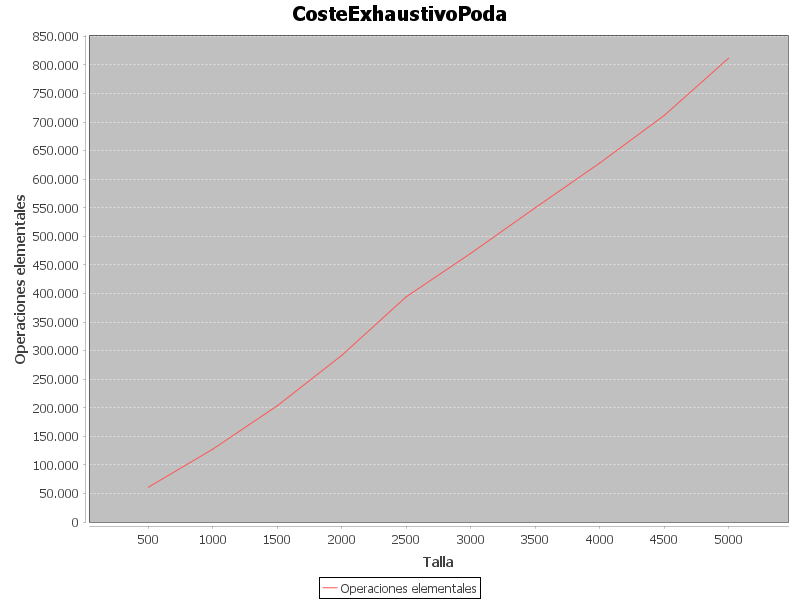
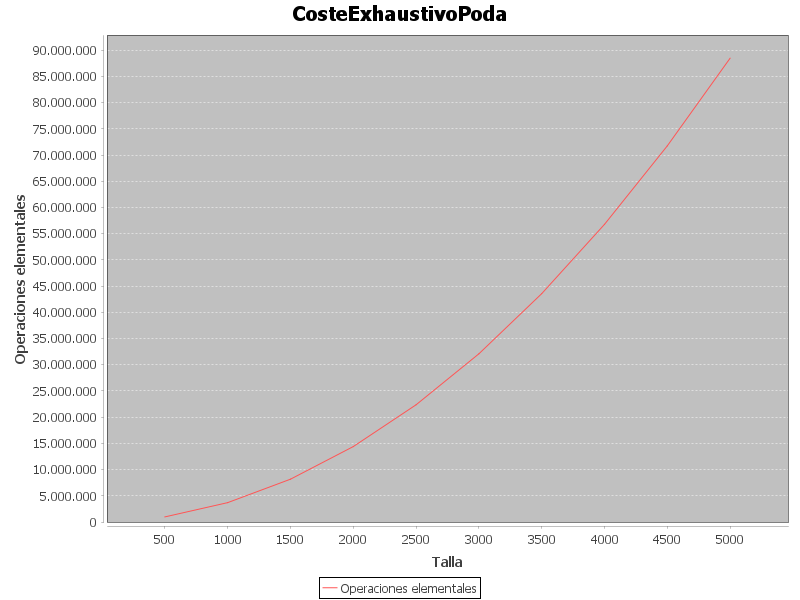
Hice algo, no me acuerdo que jajaja

diff --git a/src/Clases/Algoritmos.java b/src/Clases/Algoritmos.java
@@ -62,6 +62,7 @@ public class Algoritmos {
                     op+=4;
                 }
             }
+            op+=4;
         }
         
         return p;
@@ -93,7 +94,7 @@ public class Algoritmos {
         op+=9;
         for (int i = inicio; i < fin; i++) {
             op+=8;
-            for (int j = i + 1; j < fin && j <= i + 11; j++) {
+            for (int j = i + 1; j < fin; j++) {
                 op+=4;
                 if ((puntos.get(j).getX() - puntos.get(i).getX()) < dmin) {
                     double d = distancia(puntos.get(i), puntos.get(j));
@@ -108,79 +109,35 @@ public class Algoritmos {
                     j = fin; //o ponemos break y al carajo
                     op++;
                 }
+                op+=8;
             }
+            op+=4;
         }
         return p;
     }
 
     public static PuntosMin DyVe(List<Punto> puntos) {
         quicksort(puntos, 0, puntos.size() - 1);
+        op=+3;
         return divide_y_venceras(puntos, 0, puntos.size() - 1);
     }
 
-    //i de izq y d de derch
-    /*   public static PuntosMin DyVe(List<Punto> puntos, int i, int d) {
-        int n = d - i + 1;
-
-        // Caso base: Si el número de puntos es menor a 3, usar el método de búsqueda directa.
-        if (n < 3) {
-            return BusquedaPoda(puntos, i, d);
-        }
-        // Dividir el conjunto en dos mitades
-        int mitad = (i + d) / 2;
-        PuntosMin izq = DyVe(puntos, i, mitad);
-        PuntosMin der = DyVe(puntos, mitad + 1, d);
-        PuntosMin p = new PuntosMin();
-        // Distancias mínimas de las mitades izquierda y derecha
-        di = izq.getDistancia();
-        cont++;
-         dd = der.getDistancia();
-        cont++;
-
-        double dmin;
-        if (di <= dd) {
-            dmin = di;
-            p = izq;
-        } else {
-            dmin = dd;
-            p = der;
-        }
-
-        // Crear una lista de puntos dentro de la franja central
-        List<Punto> franja = new ArrayList<>();
-        for (int k = i; k <= d; k++) {
-            if (Math.abs(puntos.get(k).getX() - puntos.get(mitad).getX()) < dmin) {
-                franja.add(puntos.get(k));
-            }
-        }
-        // Comprobar las distancias entre los puntos dentro de la franja central
-        for (int c = 0; c < franja.size(); c++) {
-            // Comparar solo con los próximos puntos en Y, ya que están ordenados
-            for (int e = c + 1; e < franja.size() && (franja.get(e).getX() - franja.get(c).getX()) < dmin; e++) {
-                double distanciaActual = distancia(franja.get(c), franja.get(e));
-                cont++;
-                if (distanciaActual < dmin) {
-                    dmin = distanciaActual;
-                    p = new PuntosMin(franja.get(c), franja.get(e));
-                }
-            }
-        }
-
-        return p; // Retornar el resultado con la menor distancia encontrada
-    }
-     */
+   
     public static PuntosMin divide_y_venceras(List<Punto> puntos, int izq, int der) {
         PuntosMin rec = new PuntosMin();
-
+        op+=3;
         if (der - izq <= 2) {
+            op+=2;
             return BusquedaPoda(puntos, izq, der);
         }
-
+        
         int medio = (izq + der) / 2;
         
         Punto puntoMedio = puntos.get(medio);
+        op+=6;
         if (Dmin < CDmin) {
             CDmin = Dmin;
+            op++;
         }
         else{
         PuntosMin Pi = divide_y_venceras(puntos, izq, medio);
@@ -192,30 +149,42 @@ public class Algoritmos {
         double Dd = Pd.getDistancia();
         cont++;
         Dmin = Math.min(Di, Dd);
-
+        op+=11;
         if (Dmin == Di) {
             rec = new PuntosMin(Pi.getA(), Pi.getB());
+            op+=3;
         } else {
             rec = new PuntosMin(Pd.getA(), Pd.getB());
+            op+=3;
         }
-}
+}   
         ArrayList<Punto> puntosEnRango = new ArrayList<>();
+        op+=6;
         for (int i = izq; i <= der; i++) {
+            op+=4;
             if (Math.abs(puntos.get(i).getX() - puntoMedio.getX()) < Dmin) {
                 puntosEnRango.add(puntos.get(i));
+                op++;
             }
+            op+=5;
         }
-
+        op+=5;
         for (int i = 0; i < puntosEnRango.size(); i++) {
+            op+=6;
             for (int j = i + 1; j < puntosEnRango.size(); j++) {
                 double distancia = distancia(puntosEnRango.get(i), puntosEnRango.get(j));
+                
                 cont++;
+                op+=5;
                 if (distancia < Dmin) {
                     Dmin = distancia;
                     rec = new PuntosMin(puntosEnRango.get(i),
                             puntosEnRango.get(j));
+                    op+=5;
                 }
+                op+=6;
             }
+            op+=5;
         }
 
         return rec;
@@ -223,12 +192,13 @@ public class Algoritmos {
 
     public PuntosMin DyVeMejorado(List<Punto> puntos) {
         quicksort(puntos, 0, puntos.size() - 1);
+        op+=2;
         return DyVeMejorado(puntos, 0, puntos.size() - 1);
     }
 
     public PuntosMin DyVeMejorado(List<Punto> puntos, int i, int d) {
         int n = (d - i + 1);
-
+        op+=4;
         if (n >= 3) {
             PuntosMin izq = new PuntosMin(), der = new PuntosMin();
             int mitad = (i + d) / 2;
@@ -239,37 +209,52 @@ public class Algoritmos {
             double dd = der.getDistancia();
             cont += 2;
             double dmin, dis;
+             op+=16;
             if (di <= dd) {
                 dmin = di;
                 p = izq;
+                 op+=2;
             } else {
                 dmin = dd;
                 p = der;
+                 op+=2;
             }
 
             List<Punto> puntosAux = new ArrayList<>();
+             op+=6;
             for (int k = i; k <= d; k++) {
+                 op+=4;
                 if (Math.abs(puntos.get(k).getX() - puntos.get(mitad).getX()) < dmin) {
                     puntosAux.add(puntos.get(k));
+                    op+=2;
                 }
+                op+=3;
             }
 
             quicksorty(puntosAux, 0, puntosAux.size() - 1);
+            op+=6;
             for (int w = 0; w < puntosAux.size(); w++) {
+                 op+=11;
                 for (int j = w + 1; j < puntosAux.size()
                         && (puntosAux.get(j).getY() - puntosAux.get(w).getY()) < dmin; j++) {
                     double distancia = distancia(puntosAux.get(w),
                             puntosAux.get(j));
                     cont++;
+                    op++;
                     if (distancia < dmin) {
                         dmin = distancia;
                         p = new PuntosMin(puntosAux.get(w),
                                 puntosAux.get(j));
+                         op+=4;
                     }
+                    op+=11;
                 }
+                op+=6;
+                
             }
 
         } else {
+            op+=2;
             p = BusquedaPoda(puntos, i, d);
         }
 
@@ -288,13 +273,13 @@ public class Algoritmos {
             op+=5;// mientras no se crucen las búsquedas                                   
             while ((puntos.get(i).getX() <= pivote.getX()) && (i < j)) {
             
-                i++;
-                op+=7;// busca elemento mayor que pivote
+                i++;// busca elemento mayor que pivote
+                op+=7;
             }
             op+=3;
             while (puntos.get(j).getX() > pivote.getX()) {
-                j--;
-                op+=5;// busca elemento menor que pivote
+                j--;// busca elemento menor que pivote
+                op+=5;
             }op+=1;
             if (i < j) {                        // si no se han cruzado                      
                 aux = puntos.get(i);                      // los intercambia
@@ -320,35 +305,45 @@ public class Algoritmos {
     }
 
     public static void quicksorty(List<Punto> puntos, int izq, int der) {
-
+        
         // tomamos primer elemento como pivote
         Punto pivote = puntos.get(izq);
         int i = izq;         // i realiza la búsqueda de izquierda a derecha
         int j = der;         // j realiza la búsqueda de derecha a izquierda
         Punto aux;
-
-        while (i < j) {                          // mientras no se crucen las búsquedas                                   
+        op=+5;
+        while (i < j) {           
+            op+=5;// mientras no se crucen las búsquedas                                   
             while ((puntos.get(i).getY() <= pivote.getY()) && (i < j)) {
                 i++; // busca elemento mayor que pivote
+                op+=6;
             }
+            op+=3;
             while (puntos.get(j).getY() > pivote.getY()) {
-                j--;           // busca elemento menor que pivote
+                j--;
+                op+=4;
+                // busca elemento menor que pivote
             }
+            op++;
             if (i < j) {                        // si no se han cruzado                      
                 aux = puntos.get(i);                      // los intercambia
                 puntos.set(i, puntos.get(j));
                 puntos.set(j, aux);
+                op+=4;
             }
         }
 
         puntos.set(izq, puntos.get(j));      // se coloca el pivote en su lugar de forma que tendremos                                    
         puntos.set(j, pivote);      // los menores a su izquierda y los mayores a su derecha
-
+        op+=5;
         if (izq < j - 1) {
-            quicksorty(puntos, izq, j - 1);          // ordenamos subarray izquierdo
+            quicksorty(puntos, izq, j - 1);   
+            op++;// ordenamos subarray izquierdo
         }
+        op+=2;
         if (j + 1 < der) {
-            quicksorty(puntos, j + 1, der);          // ordenamos subarray derecho
+            quicksorty(puntos, j + 1, der);  
+            op++;// ordenamos subarray derecho
         }
     }
 

diff --git a/src/Clases/Mostrar.java b/src/Clases/Mostrar.java
@@ -80,7 +80,8 @@ public class Mostrar {
     }
 
     public void Apartado3(List<Punto> puntos, int estrategia) throws IOException {
-
+        a.setCont();
+        a.setOp();
         if (estrategia == 1) {
             a.BusquedaExahustiva(puntos, 0, puntos.size() - 1);
         } else if (estrategia == 2) {
